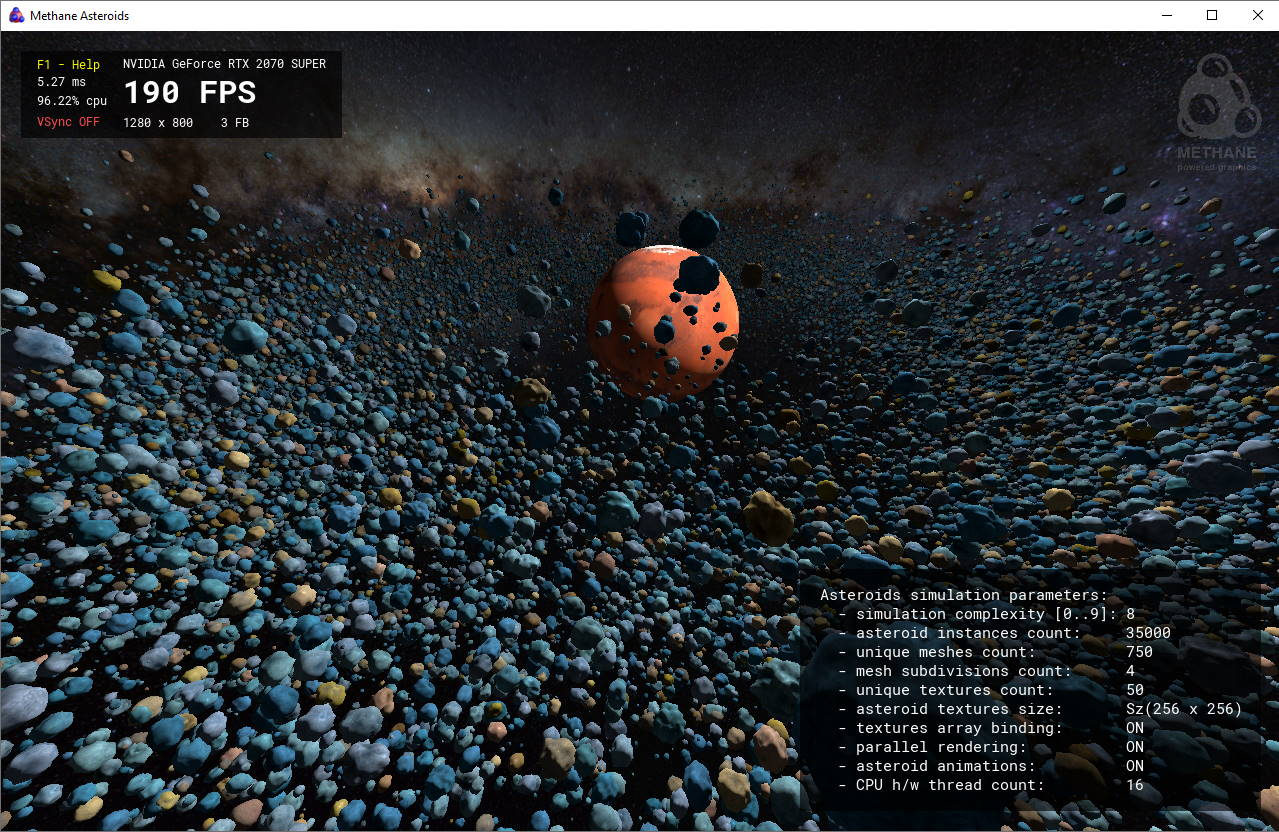
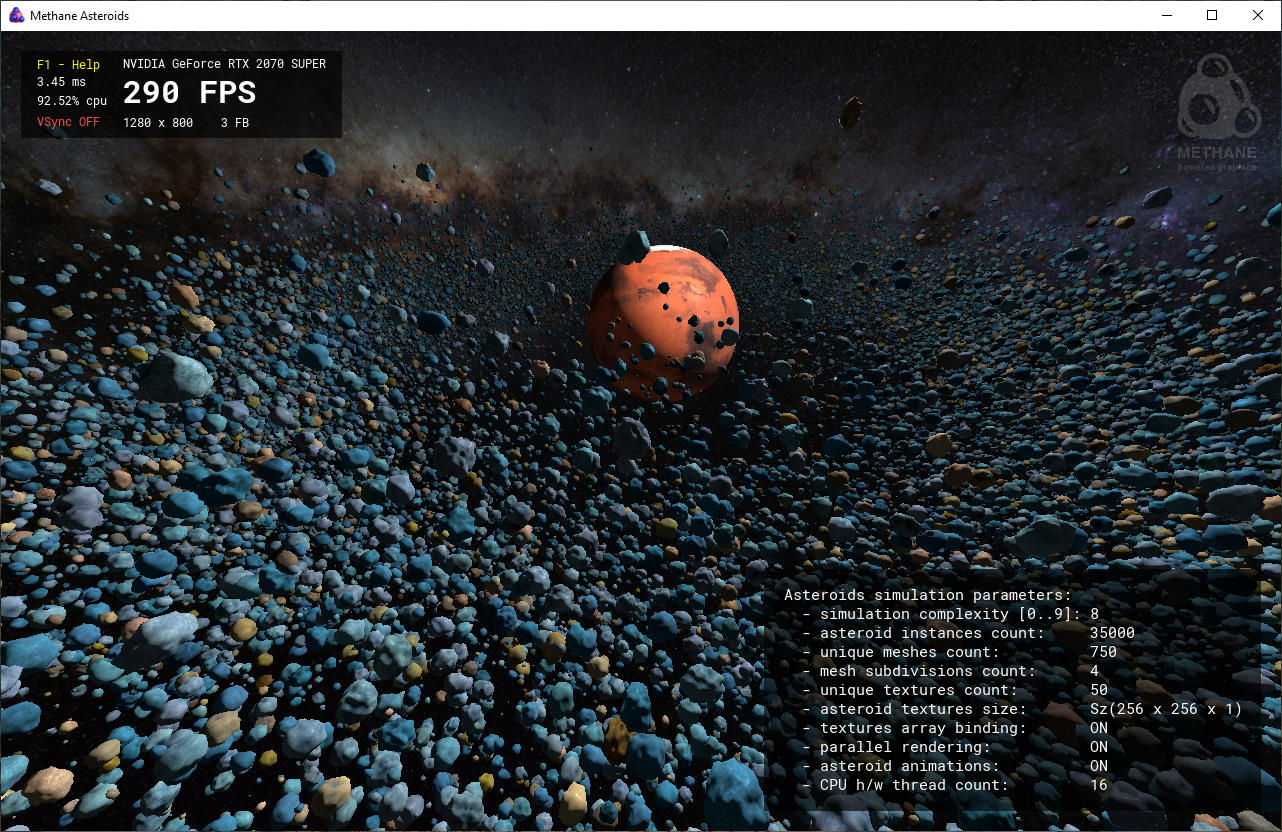
Update main ReadMe.md and Asteroids screenshot

diff --git a/README.md b/README.md
@@ -1,21 +1,20 @@
 # Methane Kit <img src="https://github.com/egorodet/MethaneKit/blob/master/Resources/Images/Logo/MethaneLogoNameSmall.png" width=200 align="right" valign="middle">
 
 [![Gitpod Ready-to-Code](https://img.shields.io/badge/Gitpod-ready--to--code-blue?logo=gitpod)](https://gitpod.io/#https://github.com/egorodet/MethaneKit)
-[![License](https://img.shields.io/badge/License-Apache%202.0-blue.svg)](LICENSE)
-[![Contributions Welcome](https://img.shields.io/badge/contributions-welcome-purple.svg?style=flat)](https://github.com/egorodet/MethaneKit/issues)
+[![Build Status](https://egorodet.visualstudio.com/MethaneKit/_apis/build/status/egorodet.MethaneKit?branchName=master)](https://egorodet.visualstudio.com/MethaneKit/_build/latest?definitionId=5&branchName=master)
+[![Quality Gate Status](https://sonarcloud.io/api/project_badges/measure?project=egorodet_MethaneKit_Windows&metric=alert_status)](https://sonarcloud.io/dashboard?id=egorodet_MethaneKit_Windows)
+[![CodeQL](https://github.com/egorodet/MethaneKit/actions/workflows/codeql-analysis.yml/badge.svg)](https://github.com/egorodet/MethaneKit/actions/workflows/codeql-analysis.yml)
 
-**Easy to use modern 3D graphics abstraction API in C++17 for cross-platform applications development:**
-- **Builds on top of modern native 3D graphics APIs**: DirectX 12 on Windows and Metal on MacOS, Vulkan on Linux will be enabled soon.
-- **Simplifies modern graphics programming** with object-oriented higher-level graphics API inspired by simplicity of Apple's Metal and common shaders code in HLSL 6.
-- **Provides cross-platform application infrastructure** from CMake-based toolchain to platform independent application and user input classes.
+**Easy to use modern 3D graphics rendering abstraction API and cross-platform application framework:**
+- **Builds on top of modern native 3D graphics APIs**: DirectX 12 on Windows and Metal on MacOS, Vulkan on Linux is coming soon.
+- **Simplifies modern graphics programming** with object-oriented medium-level graphics API inspired by simplicity of Apple Metal. Common shaders code in HLSL 6 is used on all platforms.
+- **Provides cross-platform application framework** from CMake-based build toolchain to platform independent application foundation classes.
+
+Download [release builds](https://github.com/egorodet/MethaneKit/releases) with pre-built samples, tutorials and tests to try them out. 
+Check latest build status, tests, code coverage and analysis results or get build artifacts from [Azure Pipelines](https://egorodet.visualstudio.com/MethaneKit/_build?view=runs) CI and [Sonar Cloud](https://sonarcloud.io/organizations/egorodet-github).
+See [Building from Sources](#building-from-sources) topic for manual build instructions and start learning [Methane Graphics Core](Modules/Graphics/Core) API with [Hello Triangle](/Apps/Tutorials/01-HelloTriangle) and other tutorials documentation.
 
 [![Open in Gitpod](https://gitpod.io/button/open-in-gitpod.svg)](https://gitpod.io/#https://github.com/egorodet/MethaneKit)
-
-- Click "Open in Gitpod" button to explore project code right away in VSCode IDE running in web-browser with navigation by symbols and cloud-builds.
-- Download [release builds](https://github.com/egorodet/MethaneKit/releases) with pre-built samples, tutorials and tests to try them out.
-- Check latest build status, tests, code coverage and analysis results or get build artifacts from [Azure Pipelines](https://egorodet.visualstudio.com/MethaneKit/_build?view=runs) CI and [Sonar Cloud](https://sonarcloud.io/organizations/egorodet-github).
-- See [Building from Sources](#building-from-sources) topic for manual build instructions.
-- Start learning [Methane Graphics Core](Modules/Graphics/Core) API with [Hello Triangle](/Apps/Tutorials/01-HelloTriangle) and other tutorials documentation.
 
 |     Platform     | Graphics API |  Master Build Status  |  Develop Build Status  |
 | ---------------- | -------------| --------------------- | ---------------------- |
@@ -40,8 +39,6 @@ with up-to-date results published on [Sonar Cloud](https://sonarcloud.io/organiz
 [![Windows Duplicated Lines (%)](https://sonarcloud.io/api/project_badges/measure?project=egorodet_MethaneKit_Windows&metric=duplicated_lines_density)](https://sonarcloud.io/dashboard?id=egorodet_MethaneKit_Windows)
 [![Windows Coverage](https://sonarcloud.io/api/project_badges/measure?project=egorodet_MethaneKit_Windows&metric=coverage)](https://sonarcloud.io/dashboard?id=egorodet_MethaneKit_Windows)
 [![Windows Lines of Code](https://sonarcloud.io/api/project_badges/measure?project=egorodet_MethaneKit_Windows&metric=ncloc)](https://sonarcloud.io/dashboard?id=egorodet_MethaneKit_Windows)
-[![Codacy](https://api.codacy.com/project/badge/Grade/25ae34bade994076bf636290791b3e0f)](https://www.codacy.com/app/egorodet/MethaneKit?utm_source=github.com&amp;utm_medium=referral&amp;utm_content=egorodet/MethaneKit&amp;utm_campaign=Badge_Grade)
-[![CodeFactor](https://www.codefactor.io/repository/github/egorodet/methanekit/badge)](https://www.codefactor.io/repository/github/egorodet/methanekit)
 [![Total lines](https://tokei.rs/b1/github/egorodet/MethaneKit)](https://github.com/egorodet/MethaneKit)
 
 ![Asteroids sample on Windows](Apps/Samples/Asteroids/Screenshots/AsteroidsWinDirectX12.jpg)
@@ -59,6 +56,26 @@ Methane Kit architecture is clearly distributing library modules between 5 layer
 [Methane Graphics Core](Modules/Graphics/Core) module implements a set of public object-oriented interfaces, 
 which make modern graphics programming easy and convenient in a platform and API independent way.
 ![Graphics Core Interfaces](Docs/Diagrams/MethaneKit_GraphicsCore_Interfaces.svg)
+
+### Tutorials
+
+Start learning Methane Graphics API with [Hello Triangle](/Apps/Tutorials/01-HelloTriangle) tutorial documentation
+and continue with others.
+
+| <pre><b>Name / Link</b></pre> | <pre><b>Screenshot</b></pre> | <pre><b>Description</b>                                         </pre> |
+| ----------------------------- | ---------------------------- | ---------------------------------------------------------------------- |
+| [Hello Triangle](/Apps/Tutorials/01-HelloTriangle) | ![Hello Triangle on Windows](Apps/Tutorials/01-HelloTriangle/Screenshots/HelloTriangleWinDirectX12.jpg) | Colored triangle rendering in just 120 lines of code! |
+| [Textured Cube](/Apps/Tutorials/02-TexturedCube) | ![Textured Cube on Windows](Apps/Tutorials/02-TexturedCube/Screenshots/TexturedCubeWinDirectX12.jpg) | Textured cube introduces buffers and textures usage along with program bindings. |
+| [Shadow Cube](/Apps/Tutorials/03-ShadowCube) | ![Shadow Cube on Windows](Apps/Tutorials/03-ShadowCube/Screenshots/ShadowCubeWinDirectX12.jpg) | Shadow cube introduces multi-pass rendering with render passes. |
+| [Typography](/Apps/Tutorials/04-Typography) | ![Typography on Windows](Apps/Tutorials/04-Typography/Screenshots/TypographyWinDirectX12.jpg) | Typography demonstrates animated text rendering with dynamic font atlas updates using Methane UI. |
+
+### Samples
+
+Methane samples demonstrate advanced techniques and usage scenarios with more complex implementation than tutorials above.
+
+| <pre><b>Name / Link</b></pre> | <pre><b>Screenshot</b></pre> | <pre><b>Description</b>                                         </pre> |
+| ----------------------------- | ---------------------------- | ---------------------------------------------------------------------- |
+| [Asteroids](/Apps/Samples/Asteroids) | ![Asteroids on Windows](Apps/Samples/Asteroids/Screenshots/AsteroidsWinDirectX12.jpg) | Benchmark demonstrating parallel render commands encoding in a single render pass for the large number of heterogeneous asteroid objects processed in multiple threads. |
 
 ### Features
 
@@ -97,31 +114,11 @@ which make modern graphics programming easy and convenient in a platform and API
 - **Integrated debugging and profiling capabilities**:
   - Library instrumentation for performance analysis with [trace profiling tools](#trace-profiling-tools)
   - Debug names for all GPU objects and debug regions for graphics API calls for use with [frame profiling tools](#frame-profiling-and-debugging-tools)
-- **Continuous integration** with automated multi-platform builds, unit-tests and 
-[Sonar Cloud](https://sonarcloud.io/dashboard?id=egorodet_MethaneKit_Windows) static code analysis
-in [Azure Pipelines](https://egorodet.visualstudio.com/MethaneKit/)
+- **Continuous integration** with automated multi-platform builds, unit-tests and
+  [Sonar Cloud](https://sonarcloud.io/dashboard?id=egorodet_MethaneKit_Windows) static code analysis
+  in [Azure Pipelines](https://egorodet.visualstudio.com/MethaneKit/)
 
 For detailed features description and development plans please refer to [Modules documentation](Modules).
-
-### Tutorials
-
-Start learning Methane Graphics API with [Hello Triangle](/Apps/Tutorials/01-HelloTriangle) tutorial documentation
-and continue with others.
-
-| <pre><b>Name / Link</b></pre> | <pre><b>Screenshot</b></pre> | <pre><b>Description</b>                                         </pre> |
-| ----------------------------- | ---------------------------- | ---------------------------------------------------------------------- |
-| [Hello Triangle](/Apps/Tutorials/01-HelloTriangle) | ![Hello Triangle on Windows](Apps/Tutorials/01-HelloTriangle/Screenshots/HelloTriangleWinDirectX12.jpg) | Colored triangle rendering in just 120 lines of code! |
-| [Textured Cube](/Apps/Tutorials/02-TexturedCube) | ![Textured Cube on Windows](Apps/Tutorials/02-TexturedCube/Screenshots/TexturedCubeWinDirectX12.jpg) | Textured cube introduces buffers and textures usage along with program bindings. |
-| [Shadow Cube](/Apps/Tutorials/03-ShadowCube) | ![Shadow Cube on Windows](Apps/Tutorials/03-ShadowCube/Screenshots/ShadowCubeWinDirectX12.jpg) | Shadow cube introduces multi-pass rendering with render passes. |
-| [Typography](/Apps/Tutorials/04-Typography) | ![Typography on Windows](Apps/Tutorials/04-Typography/Screenshots/TypographyWinDirectX12.jpg) | Typography demonstrates animated text rendering with dynamic font atlas updates using Methane UI. |
-
-### Samples
-
-Methane samples demonstrate advanced techniques and usage scenarios with a more complex implementation than tutorials above.
-
-| <pre><b>Name / Link</b></pre> | <pre><b>Screenshot</b></pre> | <pre><b>Description</b>                                         </pre> |
-| ----------------------------- | ---------------------------- | ---------------------------------------------------------------------- |
-| [Asteroids](/Apps/Samples/Asteroids) | ![Asteroids on Windows](Apps/Samples/Asteroids/Screenshots/AsteroidsWinDirectX12.jpg) | Benchmark demonstrating parallel render commands encoding in a single render pass for the large number of heterogeneous asteroid objects processed in multiple threads. |
 
 ## Building from Sources 
 
